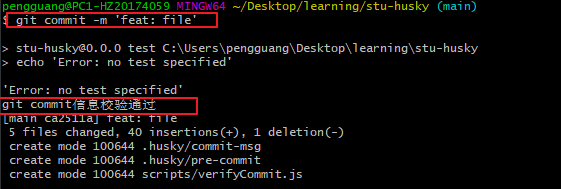
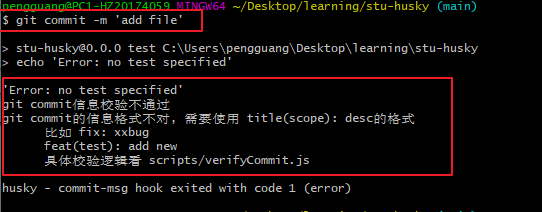
docs: 修改 husky 记录

Changed region(s): [[0.0, 0.1852, 0.8856, 0.9524], [0.0, 0.0, 0.8856, 0.1587]]

diff --git a/README.md b/README.md
@@ -226,8 +226,12 @@ npx husky add .husky/commit-msg "node scripts/verifyCommit.js"
 yarn husky add .husky/commit-msg "node scripts/verifyCommit.js" 
 ```
 
-在 verifyCommit 文件里面添加：
+在 verifyCommit 文件里面添加：[见vue3源码配置](https://github.com/vuejs/vue-next/blob/master/scripts/verifyCommit.js)
+
 feat 代表新功能，docs 代表文档，perf 代表性能等
+
+确保提交日志符合 `type(scope): message` 格式：[vue3提交记录](https://github.com/vuejs/vue-next/commits/master)
+
 ```js
 const msg = require('fs')
   .readFileSync('.git/COMMIT_EDITMSG', 'utf-8')
@@ -255,7 +259,9 @@ if (!commitRE.test(msg)) {
 ```
 
 `commit-msg`: 代码执行提交的时候执行；
+
 `pre-commit`: 代码执行之前的钩子； 可以执行 `ESLint` 代码格式；
+
 这样在 git commit 的同时先进行 ESLint 校验，然后再执行 commit 的 log 信息格式检查
 
 ```shell
@@ -266,7 +272,7 @@ npx husky add .husky/pre-commit "npm run lint"
 
 ![](images/commit-husky-success.png)
 
-提交成功:
+提交失败:
 
 ![](images/commit-husky-fail.png)
 
